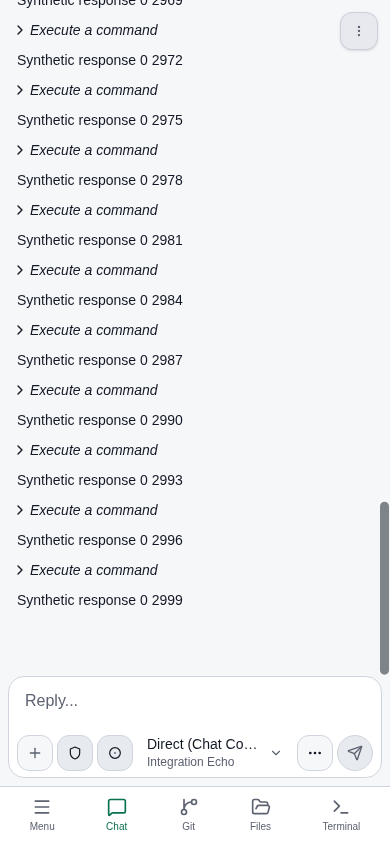
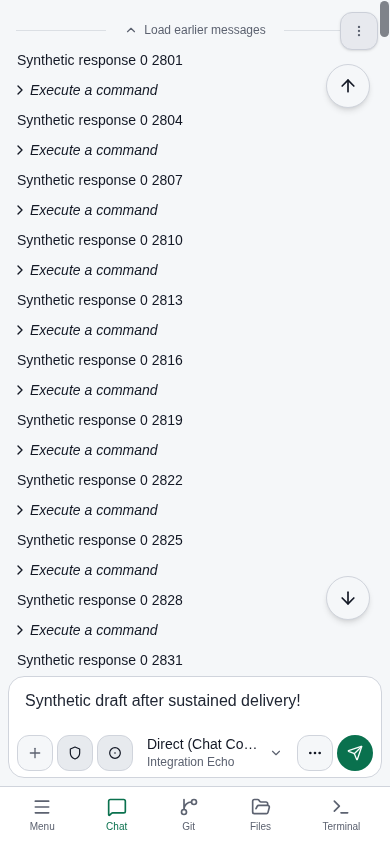
Reuse transcript projections and strengthen endurance QA

diff --git a/web/src/lib/chat/transcript/active-transcript-presentation-state.svelte.ts b/web/src/lib/chat/transcript/active-transcript-presentation-state.svelte.ts
@@ -14,7 +14,6 @@ import {
 	hasEarlierTranscriptRowsToReveal,
 	messagesFromDisplayRows,
 	transcriptDisplayRows,
-	visibleOptimisticTranscriptInputs,
 	visibleTranscriptRows,
 	type ChatDisplayRow,
 } from './transcript-row-projection.js';
@@ -55,7 +54,14 @@ export class ActiveTranscriptPresentationState {
 	protected expandedVisibleStartOrdinal: number | null = null;
 
 	readonly #sharedOverlay: ConversationTranscriptOverlayView | null;
+	#chatMessages = $derived(this.entries.map((entry) => entry.message));
 	#echoedClientMessageIds = $derived(echoedClientMessageIds(this.entries));
+	#visibleOptimisticInputs = $derived.by(() => {
+		const inputs = this.optimisticUserInputs;
+		if (this.hasLaterMessages || inputs.length === 0) return [];
+		const echoedIds = this.#echoedClientMessageIds;
+		return inputs.filter((input) => !echoedIds.has(input.clientMessageId));
+	});
 	#displayLocalNotices = $derived(
 		displayLocalNotices(this.hasLaterMessages, this.historyState, this.localNotices),
 	);
@@ -74,6 +80,8 @@ export class ActiveTranscriptPresentationState {
 		notices: this.#displayLocalNotices,
 		visibleCount: this.visibleMessageCount,
 	}));
+	#displayMessages = $derived(messagesFromDisplayRows(this.#displayRows));
+	#visibleMessages = $derived(messagesFromDisplayRows(this.#visibleRows));
 
 	constructor(sharedOverlay: ConversationTranscriptOverlayView | null) {
 		this.#sharedOverlay = sharedOverlay;
@@ -126,7 +134,7 @@ export class ActiveTranscriptPresentationState {
 	}
 
 	get chatMessages(): ChatMessage[] {
-		return this.entries.map((entry) => entry.message);
+		return this.#chatMessages;
 	}
 
 	get feedMutationClock() {
@@ -134,7 +142,7 @@ export class ActiveTranscriptPresentationState {
 	}
 
 	get displayMessages(): ChatMessage[] {
-		return messagesFromDisplayRows(this.#displayRows);
+		return this.#displayMessages;
 	}
 
 	get displayRows(): readonly ChatDisplayRow[] {
@@ -150,7 +158,7 @@ export class ActiveTranscriptPresentationState {
 	}
 
 	get visibleMessages(): ChatMessage[] {
-		return messagesFromDisplayRows(this.#visibleRows);
+		return this.#visibleMessages;
 	}
 
 	get hasEarlierRowsToReveal(): boolean {
@@ -162,11 +170,7 @@ export class ActiveTranscriptPresentationState {
 	}
 
 	get visibleOptimisticInputs(): OptimisticUserInput[] {
-		return visibleOptimisticTranscriptInputs(
-			this.hasLaterMessages,
-			this.optimisticUserInputs,
-			this.#echoedClientMessageIds,
-		);
+		return this.#visibleOptimisticInputs;
 	}
 
 	appendLocalNotice(noticeType: LocalNoticeType, content: string): void {

diff --git a/integration-tests/tests/chromium/split-chat-endurance.test.ts b/integration-tests/tests/chromium/split-chat-endurance.test.ts
@@ -121,22 +121,36 @@ test('keeps split chats virtualized during sustained delivery and responsive thr
         batchP95Ms: batchTimes[Math.floor(batchTimes.length * 0.95)],
         metrics: Object.fromEntries(metrics.metrics.map(({ name, value }) => [name, value])),
         counters, mountedRows: await page.locator('[data-chat-virtual-item]').count() });
+      expect(samples.at(-1)!.mountedRows).toBeLessThan(100);
       console.log(JSON.stringify(samples.at(-1)));
       await writeFile(join(OUTPUT, 'metrics.json'), JSON.stringify(samples, null, 2));
     }
     await page.screenshot({ path: join(OUTPUT, 'desktop.png') });
-    expect(await page.locator('[data-chat-virtual-item]').count()).toBeLessThan(100);
 
     phase('checking disclosure, scrolling, and responsive layout after sustained delivery');
+    const editor = page.locator('[data-composer] textarea');
+    await editor.fill('Synthetic draft after sustained delivery');
+    await editor.press('End');
+    await editor.press('!');
+    expect(await editor.inputValue()).toBe('Synthetic draft after sustained delivery!');
     const disclosure = left.locator('[data-chat-tool-group]').last();
     await disclosure.click();
     await page.waitForFunction(() => document.querySelector('[data-chat-tool-group][aria-expanded="true"]'));
     await disclosure.click();
     const viewport = left.locator('[data-chat-scroll-viewport]');
+    const firstRowId = await viewport.locator('[data-chat-row-id]').first().getAttribute('data-chat-row-id');
+    const firstOrdinal = Number(firstRowId?.split(':').at(-1));
+    expect(Number.isFinite(firstOrdinal)).toBe(true);
     await viewport.hover();
     await page.mouse.wheel(0, -400);
+    // Revealing earlier rows can increase the physical offset while the reader moves upward.
+    await page.waitForFunction(({ selector, firstOrdinal }) => {
+      const rowId = document.querySelector(selector)?.getAttribute('data-chat-row-id');
+      return Number(rowId?.split(':').at(-1)) < firstOrdinal;
+    }, { selector: '[data-conversation-panel="chat-view:window-main"] [data-chat-row-id]', firstOrdinal });
     await page.setViewportSize({ width: 390, height: 844 });
-    await page.locator('[data-composer] textarea').waitFor({ state: 'visible' });
+    await editor.waitFor({ state: 'visible' });
+    expect(await editor.inputValue()).toBe('Synthetic draft after sustained delivery!');
     await page.screenshot({ path: join(OUTPUT, 'mobile.png') });
 
     fixture.assertNoBrowserErrors();

diff --git a/web/src/lib/chat/transcript/__tests__/active-transcript-state.test.ts b/web/src/lib/chat/transcript/__tests__/active-transcript-state.test.ts
@@ -116,6 +116,48 @@ describe('ActiveTranscriptState', () => {
 
 	afterEach(() => vi.restoreAllMocks());
 
+	it('reuses message projections until their transcript changes', () => {
+		const chat = new ActiveTranscriptState();
+		chat.replaceGeneration('chat-1', 'generation-1', [entry(1, assistant('Synthetic first response'))], {
+			lastOrdinal: 1, pageOldestOrdinal: 1, nextBeforeOrdinal: null, hasMore: false,
+		});
+		const messages = chat.chatMessages;
+		const display = chat.displayMessages;
+		const visible = chat.visibleMessages;
+		expect(chat.chatMessages).toBe(messages);
+		expect(chat.displayMessages).toBe(display);
+		expect(chat.visibleMessages).toBe(visible);
+		expect(applyMessages(chat, 'chat-1', 'generation-1', [entry(2, assistant('Synthetic second response'))])).toBe('applied');
+		expect(chat.chatMessages).toHaveLength(2);
+		expect(chat.displayMessages).toHaveLength(2);
+		expect(chat.visibleMessages).toHaveLength(2);
+		expect(messages).toHaveLength(1);
+		expect(display).toHaveLength(1);
+		expect(visible).toHaveLength(1);
+		chat.transcriptCache.flush();
+	});
+
+	it('does not scan earlier history for optimistic echoes when no input is pending', () => {
+		const chat = new ActiveTranscriptState();
+		const message = user('Synthetic earlier input', { clientMessageId: 'earlier-input' });
+		const readEarlierMessage = vi.fn(() => message);
+		const messages = [
+			{ ordinal: 1, get message() { return readEarlierMessage(); } },
+			...assistantEntries(2, INITIAL_VISIBLE_MESSAGES + 1),
+		];
+		chat.replaceGeneration('chat-1', 'generation-1', messages, {
+			lastOrdinal: messages.length, pageOldestOrdinal: 1, nextBeforeOrdinal: null, hasMore: false,
+		});
+		readEarlierMessage.mockClear();
+		expect(chat.visibleRows).toHaveLength(INITIAL_VISIBLE_MESSAGES);
+		expect(chat.displayMessageCount).toBe(messages.length);
+		expect(readEarlierMessage).not.toHaveBeenCalled();
+		chat.upsertOptimisticUserInput(optimisticInput({ clientMessageId: 'earlier-input' }));
+		expect(chat.visibleOptimisticInputs).toEqual([]);
+		expect(readEarlierMessage).toHaveBeenCalled();
+		chat.transcriptCache.flush();
+	});
+
 	it('shares immutable ledger entries across split panels without per-panel proxies', () => {
 		const first = new ActiveTranscriptState();
 		const second = new ActiveTranscriptState();

diff --git a/web/src/lib/chat/transcript/transcript-row-projection.ts b/web/src/lib/chat/transcript/transcript-row-projection.ts
@@ -88,15 +88,6 @@ export function echoedClientMessageOrdinals(
 	return ordinals;
 }
 
-export function visibleOptimisticTranscriptInputs(
-	hasLaterMessages: boolean,
-	inputs: readonly OptimisticUserInput[],
-	echoedIds: ReadonlySet<string>,
-): OptimisticUserInput[] {
-	if (hasLaterMessages) return [];
-	return inputs.filter((input) => !echoedIds.has(input.clientMessageId));
-}
-
 export function hasEarlierTranscriptRowsToReveal(
 	visibleRows: readonly ChatDisplayRow[],
 	entries: readonly TranscriptMessage[],

diff --git a/docs/desktop-split-chat-performance.md b/docs/desktop-split-chat-performance.md
@@ -12,6 +12,13 @@ remain immutable. No history is trimmed and no paging, executor, or wire contrac
 changes. Svelte documents raw state for large arrays that are replaced rather
 than mutated: <https://svelte.dev/docs/svelte/$state#$state.raw>.
 
+The review pass also makes message-array projections lazy Svelte derivations,
+shared by readers until their inputs change. Previously each getter read built
+another array. Optimistic-input projection now avoids the full transcript echo
+scan when no input is pending or when viewing an older window. Its filtering
+lives with the owning state instead of a single-use helper. These derivations
+follow the panel lifetime and require no new cache registry or eviction policy.
+
 ## Reproduction and comparison
 
 The baseline was origin/main `28f8e679` with the diagnostic workload added.
@@ -53,7 +60,8 @@ It uses synthetic chats, an isolated controller, and a fake model.
 Before injecting transcript traffic, it exercises real Send and Enter turns,
 rapid panel switching while another turn is held, and independent draft
 preservation. After sustained delivery it checks bounded mounted rows, tool
-disclosure interaction, scrolling, and the compact viewport. Injected rows are
+disclosure interaction, actual scroll movement, typing, and preservation of the
+typed draft at the compact viewport. Injected rows are
 browser-side diagnostic traffic, not committed ledger history; real-turn checks
 therefore run first, while browser and server frontiers agree.
 
@@ -63,6 +71,14 @@ visible row addresses advance. It fails on the deeply reactive field and passes
 on raw state. Existing transcript and panel-registry tests cover paging,
 replacement, reconnect, and split-panel fanout.
 
+Two additional regressions failed on `1a8f8668` and passed after the review pass:
+repeated message projection reads reuse their arrays until an append, and
+visible-tail projection does not read an older row solely to check for echoes
+when no input is pending. An already-echoed input still stays hidden when
+submission requires that check. These are deterministic work-count and
+invalidation checks; the earlier latency table measures the raw-state change,
+not the additional projection optimization.
+
 ## Validation and evidence
 
 The focused transcript/panel checks passed 162 tests, and the final Chromium
@@ -70,6 +86,16 @@ scenario passed with real turns, 6,000 injected rows, disclosures, scrolling, an
 compact layout. `bun run check` passed with zero Svelte errors or warnings.
 The CLI suite passed 715 tests. The complete frontend run passed 7,948 tests and
 failed one composer focus test under load; that test passed on isolated retry.
+
+After the review optimization, 192 focused tests and all 7,951 frontend tests
+passed. Lint, all type checks, and the build passed, and a new isolated startup
+served successfully on a fresh port. The strengthened Chromium scenario passed
+with 59 mounted rows throughout delivery, typing after 6,000 rows, earlier-row
+scrolling, tool disclosures, and mobile draft preservation. The root command
+again stopped at the repository-inventory test's five-second deadline; its
+isolated retry passed.
+The original `1a8f8668` head passed every hosted check, including Chromium;
+the updated head requires its own hosted validation.
 
 `bun run test` stopped at two unrelated 5-second filesystem-scanning timeouts;
 both passed on targeted retry with a larger local deadline. Continuing provider
@@ -86,5 +112,6 @@ as a latency comparison.
 
 [Desktop capture](qa/desktop-split-chat-performance/desktop.png) and
 [mobile capture](qa/desktop-split-chat-performance/mobile.png) are deterministic
-synthetic application captures. Litterbox returned HTTP 500 on upload, so
-external screenshot embedding remains blocked until that service recovers.
+synthetic application captures committed for durable evidence. The PR description
+embeds temporary review copies on Litterbox with a 72-hour lifetime; those links
+require refreshing before review or merge if they expire.
